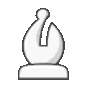
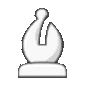
Fixing a bug

diff --git a/source/game_gui.py b/source/game_gui.py
@@ -6,6 +6,7 @@ class GameGui(tk.Frame):
     def __init__(self, master):
         super().__init__(master)
         self.width, self.height = 712, 712
+        self.squares = []
         master.geometry(f"{self.width}x{self.height}")
         master.resizable(False, False)
         master.title("Master Chess")
@@ -26,8 +27,10 @@ class GameGui(tk.Frame):
         for y in range(0, self.height, self.square_size):
             for x in range(0, self.width, self.square_size):
                 x0, y0, x1, y1 = x, y, x + self.square_size, y + self.square_size
-                self.canvas.create_rectangle(x0, y0, x1, y1, fill=colors[color], tags="square")
+                coords = x0, y0, x1, y1
+                square = self.canvas.create_rectangle(coords, fill=colors[color], tags="square")
                 color = abs(color - 1)
+                self.squares.append(square)
             colors.reverse()
         self.canvas.tag_bind("square", "<Button-1>", self.square_event)
 
@@ -36,7 +39,7 @@ class GameGui(tk.Frame):
         pieces = self.game.board.get_all_pieces()
         for piece in pieces:
             column, line = piece.position
-            margin = 1  # Value to make the piece fits perfectly inside the square
+            margin = 2  # Value to make the piece fits perfectly inside the square
             x, y = column * self.square_size + margin, line * self.square_size + margin
             image = tk.PhotoImage(file=piece.image)
             self.canvas.create_image(x, y, image=image, anchor=tk.NW, tags="piece")
@@ -57,7 +60,7 @@ class GameGui(tk.Frame):
     def piece_event(self, event):
         x, y = event.x, event.y
         square_x, square_y = self.find_square(x, y)
-        column, line = square_x//self.square_size, square_y//self.square_size
+        column, line = int(square_x/self.square_size), int(square_y/self.square_size)
         clicked_piece = self.game.board.get(column, line)
         if clicked_piece.color != self.game.turn:
             if self.game.selected_piece is not None:
@@ -70,7 +73,7 @@ class GameGui(tk.Frame):
     def move_event(self, event):
         x, y = event.x, event.y
         square_x, square_y = self.find_square(x, y)
-        column, line = square_x//self.square_size, square_y//self.square_size
+        column, line = int(square_x/self.square_size), int(square_y/self.square_size)
         move = column, line
         try:
             self.game.move_selected_piece(move)
@@ -84,11 +87,10 @@ class GameGui(tk.Frame):
         self.highlight_king_in_check(king_in_check)
 
     def find_square(self, x, y):
-        for posy in range(0, self.height, self.square_size):
-            for posx in range(0, self.width, self.square_size):
-                x0, y0, x1, y1 = posx, posy, posx + self.square_size, posy + self.square_size
-                if x0 <= x < x1 and y0 <= y < y1:
-                    return x0, y0
+        for square in self.squares:
+            x0, y0, x1, y1 = self.canvas.coords(square)
+            if x0 <= x <= x1 and y0 <= y <= y1:
+                return x0, y0
 
     def highlight_piece(self, x, y):
         border = 3  # Value to make the border fits inside the square
